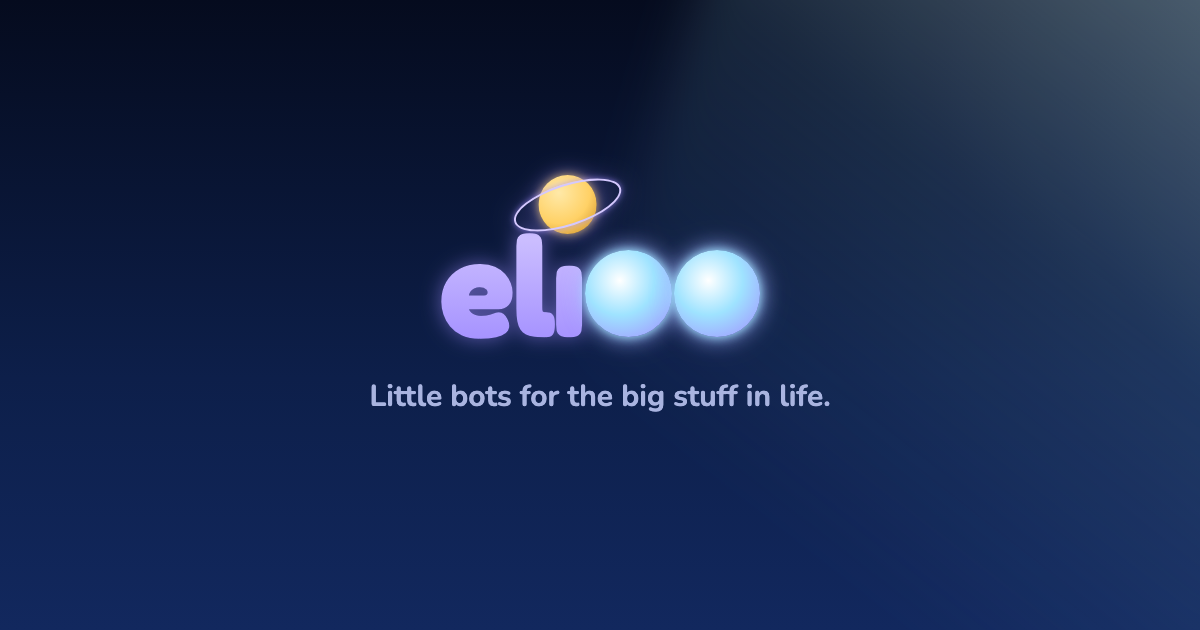
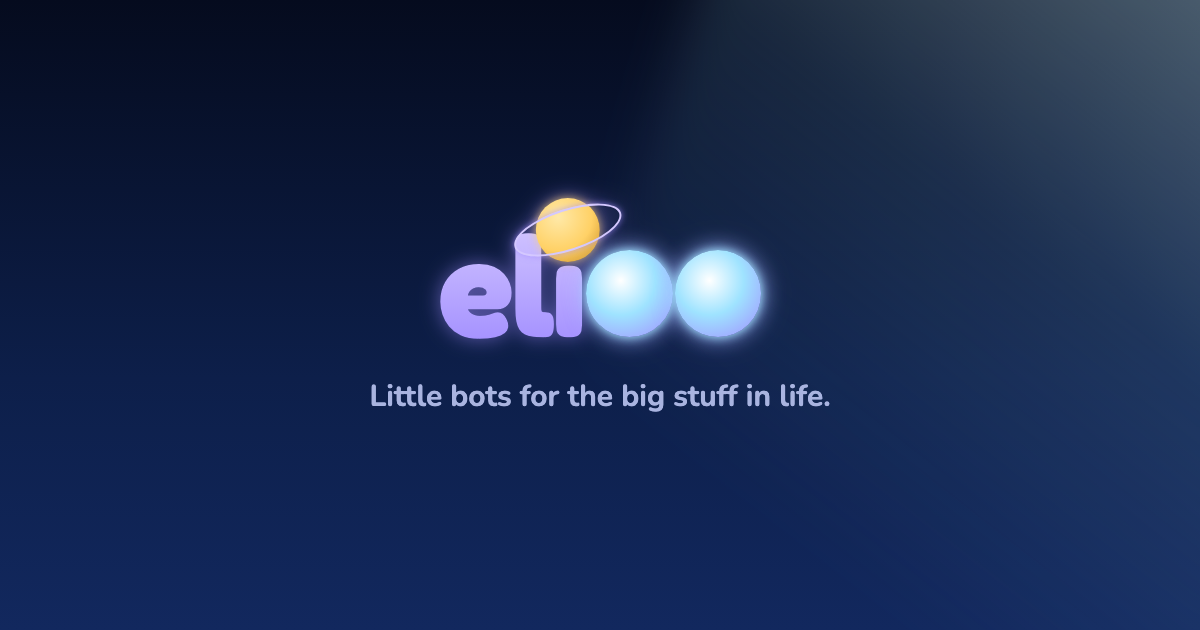
feat: readme, wordmark accessible name, regenerated og image

Changed region(s): [[0.4008, 0.2413, 0.5242, 0.4222], [0.4008, 0.4222, 0.4317, 0.4825]]

diff --git a/index.html b/index.html
@@ -22,8 +22,8 @@
 <body>
   <header class="nav">
     <div class="wrap nav-row">
-      <a class="mark-link" href="#top" aria-label="elioo home">
-        <span class="mark" aria-hidden="true"><span class="m-el">el</span><span class="m-i">ı<b class="m-planet"><u></u></b></span><span class="m-oo"><i></i><i></i></span></span>
+      <a class="mark-link" href="#top" aria-label="elioo, back to top">
+        <span class="mark" aria-hidden="true"><span class="m-el">el</span><span class="m-i">i<b class="m-planet"><u></u></b></span><span class="m-oo"><i></i><i></i></span></span>
       </a>
       <nav aria-label="Sections">
         <ul class="nav-links">
@@ -133,7 +133,7 @@
 
   <footer class="footer">
     <div class="wrap footer-row">
-      <span class="mark small" aria-hidden="true"><span class="m-el">el</span><span class="m-i">ı<b class="m-planet"><u></u></b></span><span class="m-oo"><i></i><i></i></span></span>
+      <span class="mark small" aria-hidden="true"><span class="m-el">el</span><span class="m-i">i<b class="m-planet"><u></u></b></span><span class="m-oo"><i></i><i></i></span></span>
       <span class="footer-text">elioo · Dhaka · 2026</span>
       <a class="footer-link" href="https://github.com/KhondokerTanvirHossain/elioo-web" rel="noopener" target="_blank">Source</a>
     </div>

diff --git a/og.html b/og.html
@@ -16,7 +16,7 @@
 <body>
   <div class="beam" aria-hidden="true"></div>
   <div class="og">
-    <span class="mark" aria-hidden="true"><span class="m-el">el</span><span class="m-i">ı<b class="m-planet"><u></u></b></span><span class="m-oo"><i></i><i></i></span></span>
+    <span class="mark" aria-hidden="true"><span class="m-el">el</span><span class="m-i">i<b class="m-planet"><u></u></b></span><span class="m-oo"><i></i><i></i></span></span>
     <div class="tag">Little bots for the big stuff in life.</div>
   </div>
 </body>

diff --git a/styles.css b/styles.css
@@ -64,8 +64,8 @@ a { color: inherit; }
 }
 .m-i { position: relative; display: inline-block; }
 .m-planet {
-  position: absolute; left: 50%; top: -.28em;
-  width: .42em; height: .42em; transform: translateX(-50%);
+  position: absolute; left: 50%; top: -.12em;
+  width: .46em; height: .46em; transform: translateX(-50%);
   border-radius: 50%;
   background: radial-gradient(circle at 35% 30%, #FFE9A8, var(--sun) 55%, #C98A1E);
   box-shadow: 0 0 10px rgba(255, 209, 102, .7);

diff --git a/README.md b/README.md
@@ -1,1 +1,45 @@
 # elioo-web
+
+Single-page site for [elioo.org](https://elioo.org). Plain HTML, CSS and JS. No build step.
+
+## Run locally
+
+    npm run serve
+    open http://localhost:4173
+
+## Check
+
+    npm run check   # html-validate + node tests
+
+## Deploy
+
+Production deploys from `main` via Vercel. Preview deploys per branch.
+
+    npx vercel        # preview
+    npx vercel --prod # production
+
+## DNS (Hostinger)
+
+| Type  | Name | Value                 |
+|-------|------|-----------------------|
+| A     | @    | 76.76.21.21           |
+| CNAME | www  | cname.vercel-dns.com  |
+
+Existing subdomain records stay as they are.
+
+## Founder photo
+
+Drop a square portrait at `assets/tanvir.jpg`. Until it exists the page shows the orb.
+
+## Open Graph image
+
+`og.png` is a screenshot of `og.html` at 1200x630. Regenerate after changing the wordmark:
+
+    npm run serve
+    "/Applications/Google Chrome.app/Contents/MacOS/Google Chrome" --headless=new --hide-scrollbars \
+      --window-size=1200,630 --virtual-time-budget=4000 --screenshot=og.png http://localhost:4173/og.html
+
+## Design
+
+Spec: `docs/superpowers/specs/2026-09-12-elioo-landing-design.md`
+Plan: `docs/superpowers/plans/2026-09-12-elioo-landing.md`
